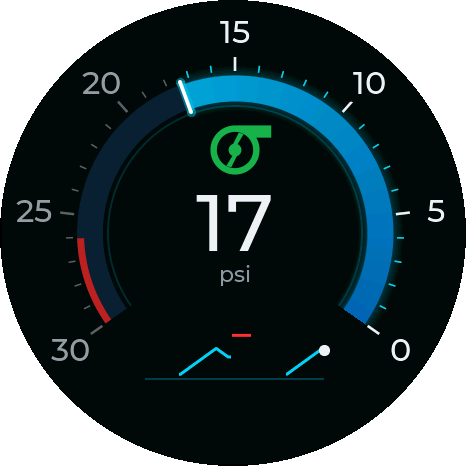
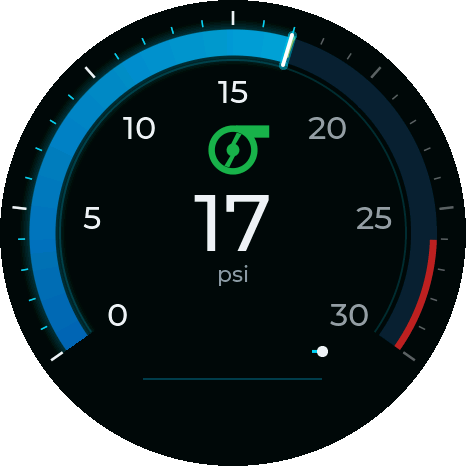
Run the Modern faces clockwise with the numerals inside the arc
The dashboard mirrors its boost arc only because it sits on the right
of the page, so both gauge faces now sweep clockwise. The numerals move
inside the band, and the band moves out to the rim (outer edge 204 px)
with the ticks still outside it.

diff --git a/tools/faces/modern_faces.py b/tools/faces/modern_faces.py
@@ -7,9 +7,8 @@ The look is the obd-display Modern dashboard's arcs (src/desktop/ObdDisplay.Desk
 Gauges/ArcGauge.cs, laid out in ModernDashboardView.axaml, palette from Styles/Colors.axaml): a thick
 lit band in place of a needle, fading up from Ford blue to the reading's colour, over a soft glow,
 with a white head bar, the warning and danger stretches as a slim stripe on the band's outer edge,
-and ticks and numerals outside the band that light as the fill passes them. The boost arc is
-mirrored (it runs anticlockwise), as on the dashboard; the EGT arc runs clockwise, like the
-dashboard's RPM arc, so a pair of gauges reads as the dashboard's two arcs.
+ticks outside the band and numerals inside it, both lit as the fill passes them. Both arcs run
+clockwise: the dashboard mirrors its boost arc only because it sits on the right of the page.
 
 The icons come from px_faces.py, so the two styles share them. Design notes: docs/gauge-faces.md.
 """
@@ -50,13 +49,13 @@ STRIPE_ALPHA = 0xb0 / 255   # the dashboard's warning tint; danger is a little s
 DANGER_ALPHA = 0xd0 / 255
 
 # ---------------------------------------------------------------- geometry
-# ArcGauge's proportions at its 276 px size, scaled to the 466 px round panel. Its band is 16 px on
-# a 276 px control; here 26 px, with the band's outer edge at 158 so that the ticks, a gap and the
-# numerals fit outside it within the panel's safe area. The numerals at 3 and 9 o'clock decide it:
-# set sideways to the radius, a three-digit EGT numeral is ~50 px wide, and it has to clear both the
-# tick under it (by 4 px) and the panel's edge.
+# ArcGauge's band and tick proportions (16 px band and 0.55x ticks on a 276 px control), scaled to
+# the 466 px round panel. The numerals sit inside the band (owner's call, 2026-11-28), so the band
+# moves out to the rim: its outer edge at 204, the ticks outside it to 222, within the 225 px safe
+# area. The numerals ring the inside of the glow; at 3 and 9 o'clock, where a numeral is set
+# sideways to the radius, its box has to stay inside the glow (r 168), which sets their radius.
 SWEEP = 250              # as on the dashboard, but centred: 125 degrees either side of 12
-BAND_OUT = 158           # the face radius: outer edge of the band
+BAND_OUT = 204           # the face radius: outer edge of the band
 BAND_W = 26
 GLOW = 10                # ArcGauge's five glow passes reach 2..10 px past the band
 STRIPE_W = 7             # ArcGauge: max(3, thickness * 0.28)
@@ -138,21 +137,19 @@ def face(gid, comment, channel, unit, vmax, major, minor, zones, alerts, caption
 """
 
 
-BOOST = dict(gid="boost_modern", comment="Boost gauge, 0-30 PSI, redline from 26: the Modern dashboard's mirrored boost arc.",
+BOOST = dict(gid="boost_modern", comment="Boost gauge, 0-30 PSI, redline from 26: after the Modern dashboard's boost arc.",
              channel="boost", unit="psi", vmax=30, major=5, minor=1,
              zones=[(26, "#e62323")], alerts=[(26, px_faces.RED, 2)], caption="psi", icon=px_faces.TURBO_ICON,
-             # Mirrored: the fill starts at the lower right and runs anticlockwise over the top.
-             start=SWEEP / 2, sweep=-SWEEP,
-             label_font="montserrat_32", label_r=202)
+             start=360 - SWEEP / 2, sweep=SWEEP,
+             label_font="montserrat_32", label_r=142)
 EGT = dict(gid="egt_modern", comment="Exhaust gas temperature gauge, 0-900 C: yellow from 380, orange from 440, red above 500.",
            channel="egt", unit="C", vmax=900, major=150, minor=50,
            zones=[(380, px_faces.YELLOW), (440, px_faces.ORANGE), (500, "#e62323")],
            alerts=[(380, px_faces.YELLOW, 0), (440, px_faces.ORANGE, 0), (500, px_faces.RED, 2)],
            caption="°C", icon=px_faces.EGT_ICON,
-           # Clockwise, as the dashboard's RPM arc: the pair reads as its two arcs.
            start=360 - SWEEP / 2, sweep=SWEEP,
-           # Three-digit numerals: a size down, and pulled in to clear the panel's edge at 3 and 9.
-           label_font="montserrat_26", label_r=204)
+           # Three-digit numerals: a size down, and pulled in so the widest stay clear of the glow.
+           label_font="montserrat_26", label_r=138)
 
 
 if __name__ == "__main__":

diff --git a/docs/gauge-faces.md b/docs/gauge-faces.md
@@ -7,7 +7,7 @@ do.
 |---|---|---|
 | `boost.xml` | PX Ranger style, 0–30 psi, redline 26 | `tools/faces/px_faces.py` |
 | `egt.xml` | PX Ranger style, 0–900 °C, yellow 380 / orange 440 / red 500 | `tools/faces/px_faces.py` |
-| `boost_modern.xml` | Modern style (lit arc, mirrored), 0–30 psi, redline 26 | `tools/faces/modern_faces.py` |
+| `boost_modern.xml` | Modern style (lit arc), 0–30 psi, redline 26 | `tools/faces/modern_faces.py` |
 | `egt_modern.xml` | Modern style (lit arc), 0–900 °C, yellow 380 / orange 440 / red 500 | `tools/faces/modern_faces.py` |
 | `boost_custom.xml` | Hand-written test face for every custom-shape feature | no |
 | built-in fallback (`gauge_config_default.c`) | PX boost face with the built-in needle | `px_faces.py --default` |
@@ -113,16 +113,15 @@ On the gauge, 2026-11-28, values fed over UDP telemetry.
 
 | Dashboard | Here |
 |---|---|
-| A thick band in place of a needle, fading from `IpcBlue` #0065b0 to `IpcCyanBright` #00d2f0 | 26 px band, outer edge at 158 px, same colours. The fade runs along the **scale**, not along the fill (see below) |
+| A thick band in place of a needle, fading from `IpcBlue` #0065b0 to `IpcCyanBright` #00d2f0 | 26 px band at the rim, outer edge at 204 px, same colours. The fade runs along the **scale**, not along the fill (see below) |
 | A glow of five faint passes reaching 2–10 px past the band | An analytic glow, 21% at the band's edge falling to 0 at 10 px, computed per pixel once |
 | A white head bar, 3.5 px over a 9 px halo of the fill at 45% | `#ffffff` 4 px over a 9 px halo at 45% |
 | The whole fill amber or red past the thresholds, fading up from 35% of that colour | The same, from the face's alerts: boost red above 26; EGT yellow from 380, orange from 440, red above 500. Steady; the readout and icon flash in red as on the PX faces |
 | Warning and danger as a slim stripe on the band's outer edge (`#b0ffb000`, `#d0e62323` over the track) | 7 px stripes, the tints pre-mixed over the track `#0b2031`: yellow, orange and red for EGT |
-| A hairline guide inside the band (`#3300bee1`) | A 2 px band at radius 128 (a 1 px arc breaks up on the panel), `#042d36` |
-| Ticks outside the band, majors 0.55 × band long, minors half; lit (white, minors in the fill colour) once passed | 14 and 7 px shaped ticks hanging outward from radius 162; lit as a whole as the fill reaches each |
-| Numerals outside the ticks in `IpcGrey`, white once passed | `montserrat_32` (boost) and `montserrat_26` (EGT, three digits) in `#969ea2`, swapped to `#ebf0f2` |
-| The boost arc mirrored, running anticlockwise | `start-angle="125" sweep="-250"` |
-| The RPM arc clockwise | EGT, clockwise, so a pair of gauges reads as the dashboard's two arcs |
+| A hairline guide inside the band (`#3300bee1`) | A 2 px band at radius 174 (a 1 px arc breaks up on the panel), `#042d36` |
+| Ticks outside the band, majors 0.55 × band long, minors half; lit (white, minors in the fill colour) once passed | 14 and 7 px shaped ticks hanging outward from radius 208, to 222; lit as a whole as the fill reaches each |
+| Numerals outside the ticks in `IpcGrey`, white once passed | **Inside the band** (owner's call, 2026-11-28), ringing the inside of the glow at radius 142 (`montserrat_32`, boost) and 138 (`montserrat_26`, EGT's three digits), in `#969ea2`, swapped to `#ebf0f2`. With the numerals inside, the band moves out to the rim |
+| The boost arc mirrored, running anticlockwise | **Both run clockwise** (`start-angle="235" sweep="250"`). The dashboard mirrors its boost arc only because it sits on the right of the page (owner, 2026-11-28). The schema keeps the negative sweep for a face that wants it |
 | Near-black ground `#05090b`, nothing boxed | The same. On the AMOLED it is close to off, and nothing on the face has a box |
 
 Kept from the PX faces, at the same sizes ([ADR 0014](adr/0014-glanceable-burn-in-aware-dial.md)): the icon

diff --git a/docs/adr/0016-arc-fill-faces.md b/docs/adr/0016-arc-fill-faces.md
@@ -11,7 +11,7 @@ repository: `ArcGauge.cs`, `ModernDashboardView.axaml`). Its dials have no needl
 thick lit band whose length is the value, fading from Ford blue at its start to the reading's
 colour at its head, over a soft glow, with a white head bar, the warning and danger stretches as a
 slim stripe on the band's outer edge, and the ticks and numerals it has passed lit. The boost arc
-is mirrored and runs anticlockwise.
+is mirrored and runs anticlockwise, but only because of where it sits on the page.
 
 The renderer was built around a pre-rendered face and a small moving needle
 ([ADR 0003](0003-static-background-plus-needle-sprite.md)). A filled arc is the opposite case: the
@@ -41,9 +41,10 @@ pixel of the fill whenever the value moves.
 5. **Ticks and labels light whole.** A tick's pixels take its own value as their key, and each
    label has a lit and an unlit tile swapped as the fill passes it, so nothing is ever half lit.
 6. **The faces are generated** by `tools/faces/modern_faces.py`, a sibling of `px_faces.py` that
-   shares its icons. The boost arc is mirrored, as on the dashboard; the EGT arc runs clockwise,
-   like the dashboard's RPM arc, so a pair reads as its two arcs. Both are 250° arcs, centred on
-   the round panel rather than leaning inward as the dashboard's do in their frames.
+   shares its icons. Both arcs run clockwise: the dashboard mirrors its boost arc only for its
+   place on the page (owner, 2026-11-28). The numerals sit inside the band and the ticks outside,
+   with the band at the rim. Both are 250° arcs, centred on the round panel rather than leaning
+   inward as the dashboard's do in their frames.
 
 ## Alternatives rejected
 

diff --git a/docs/gauge-config-schema.md b/docs/gauge-config-schema.md
@@ -45,8 +45,8 @@ Files live on the LittleFS `storage` partition at `/storage/gauges/<id>.xml`.
 
 A face using custom tick, needle and hub shapes is in
 [../firmware/assets/gauges/boost_custom.xml](../firmware/assets/gauges/boost_custom.xml); see
-[Shapes](#shapes). A face that shows the value as a lit arc instead of a needle, mirrored to run
-anticlockwise, is [../firmware/assets/gauges/boost_modern.xml](../firmware/assets/gauges/boost_modern.xml);
+[Shapes](#shapes). A face that shows the value as a lit arc instead of a needle is
+[../firmware/assets/gauges/boost_modern.xml](../firmware/assets/gauges/boost_modern.xml);
 see [`<arc>`](#arc-01).
 
 ## Elements
